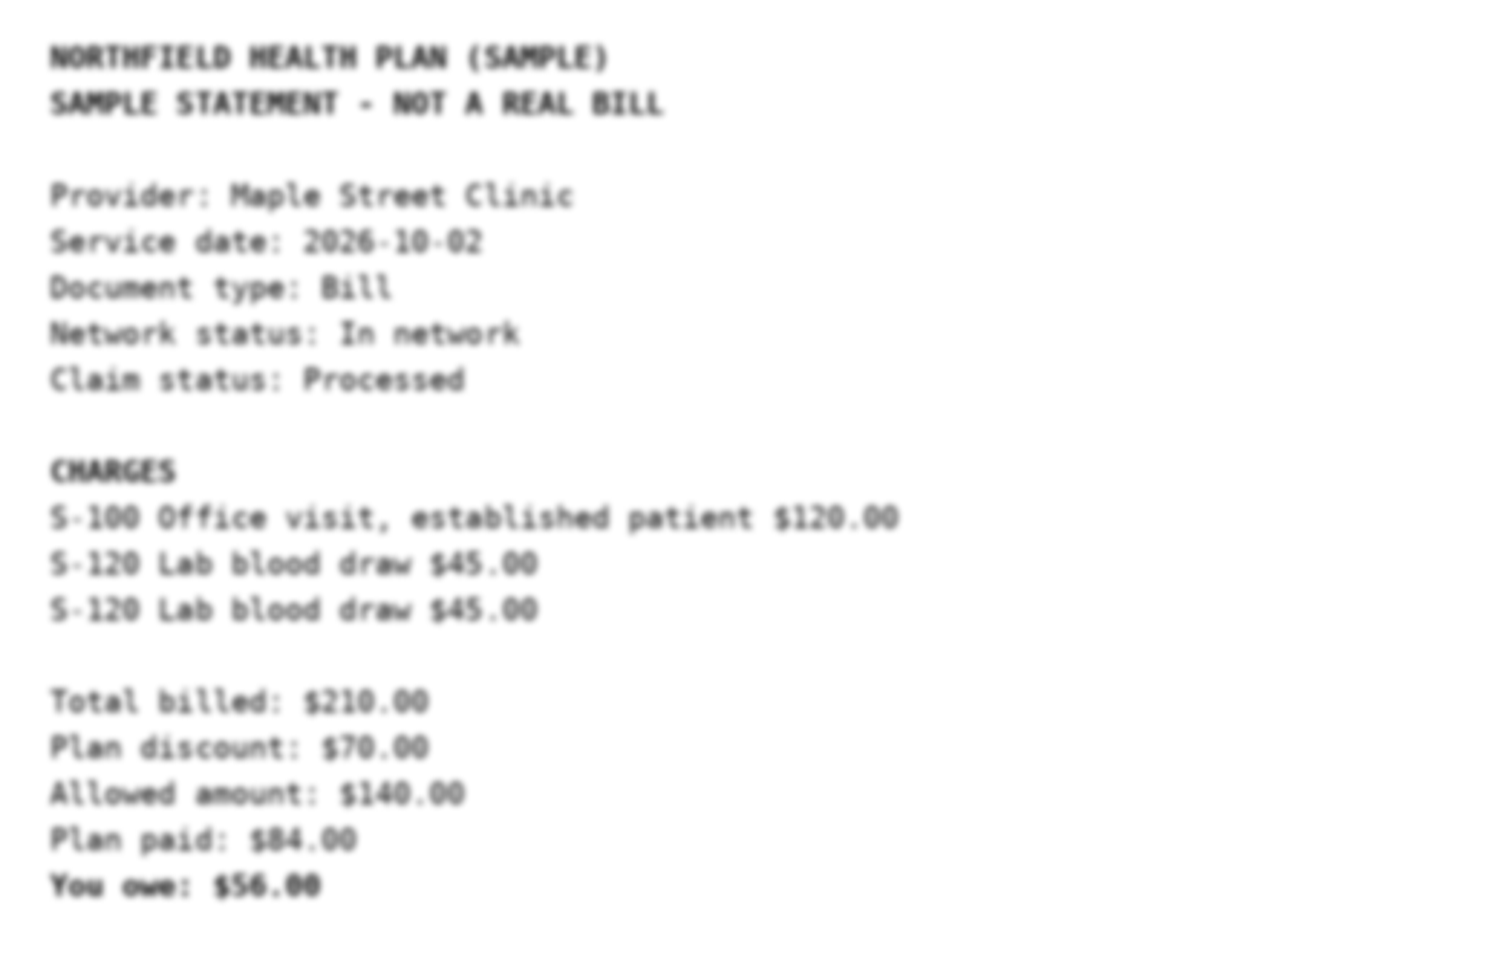
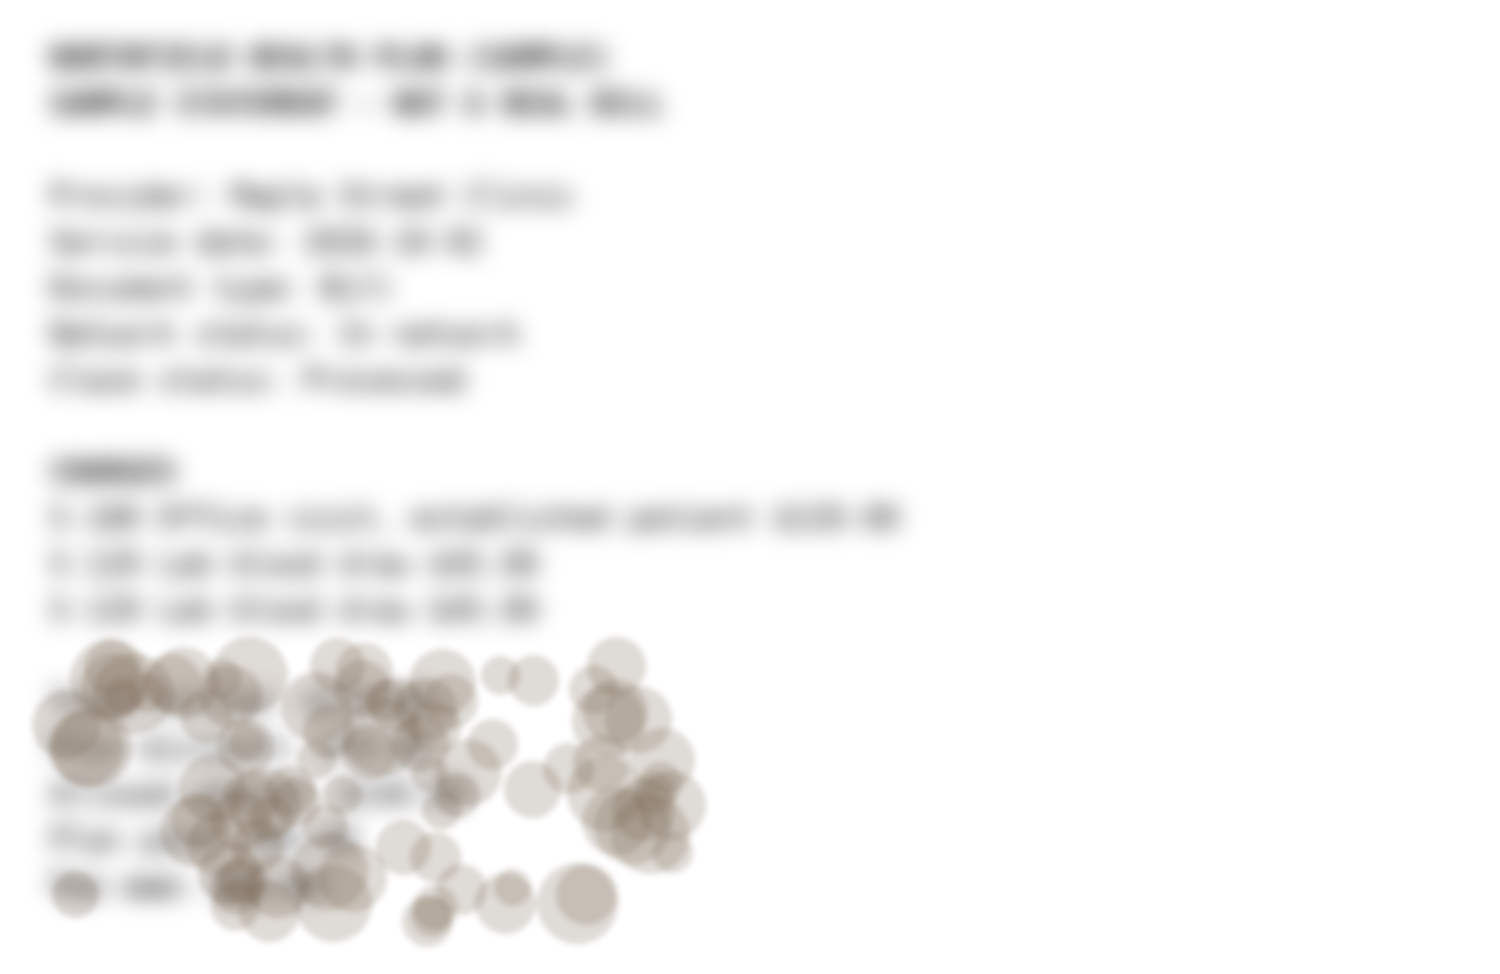
Harder blurry sample so the refusal is clear

Changed region(s): [[0.0, 0.462, 0.6133, 0.9856], [0.0307, 0.1848, 0.3987, 0.4004], [0.0307, 0.0308, 0.46, 0.154]]

diff --git a/static/app.js b/static/app.js
@@ -241,7 +241,7 @@ function registerWebMCP() {
   const tools = [
     {
       name: "get_claims",
-      description: "List all sample statements with provider, date, amounts and any flags (duplicate, out_of_network, denied, not_a_bill).",
+      description: "List all statements with claim_id, provider, date, amounts and any flags (duplicate, out_of_network, denied, not_a_bill). Call this first to find a claim_id, for example for Maple Street Clinic.",
       inputSchema: { type: "object", properties: {} },
       annotations: { readOnlyHint: true },
       execute: async () => text(await api("/api/claims")),
@@ -264,7 +264,10 @@ function registerWebMCP() {
       description: "Get a plain-language AI explanation of one statement, together with a number check. The check compares every dollar amount in the explanation with the statement. If check.ok is false, do NOT repeat the explanation to the person. Tell them which number did not match.",
       inputSchema: { type: "object", properties: idProp, required: ["claim_id"] },
       annotations: { readOnlyHint: true },
-      execute: async ({ claim_id }) => text(await api(`/api/claims/${encodeURIComponent(claim_id)}/ai-explain`)),
+      execute: async ({ claim_id }) => {
+        if (currentId !== claim_id) await showClaim(claim_id);
+        return text(await api(`/api/claims/${encodeURIComponent(claim_id)}/ai-explain`));
+      },
     },
     {
       name: "explain_charge",
